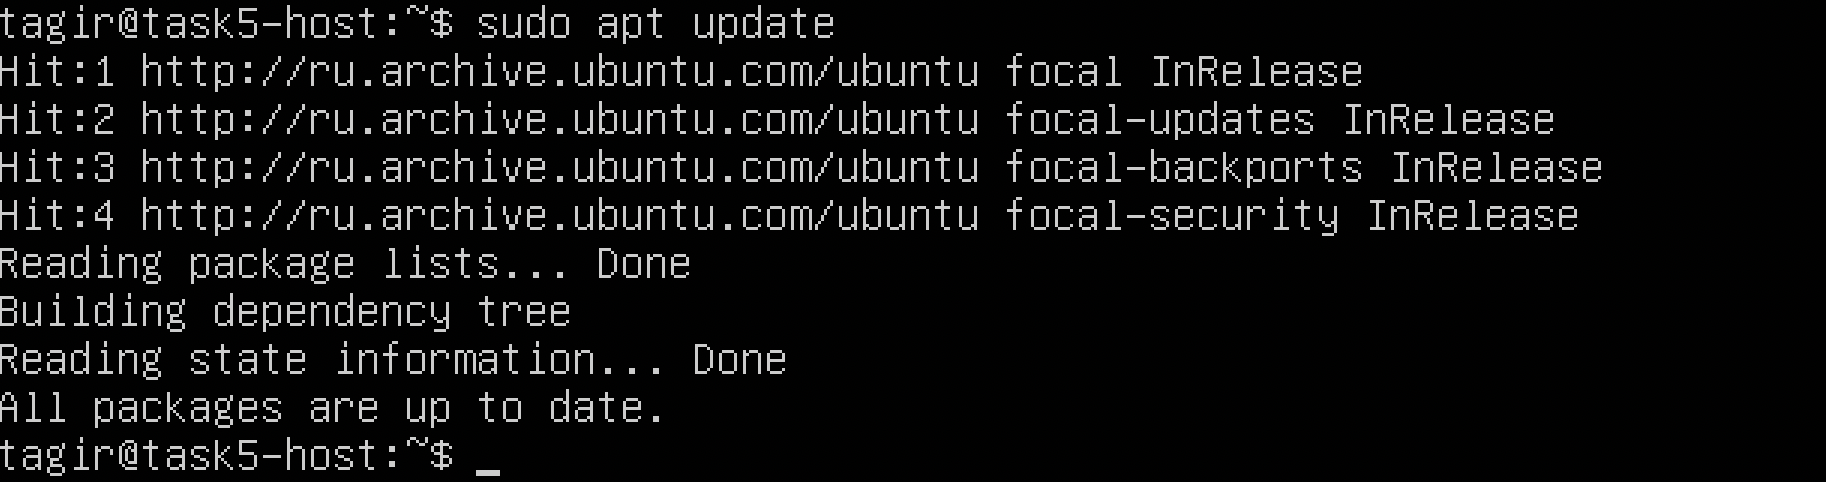
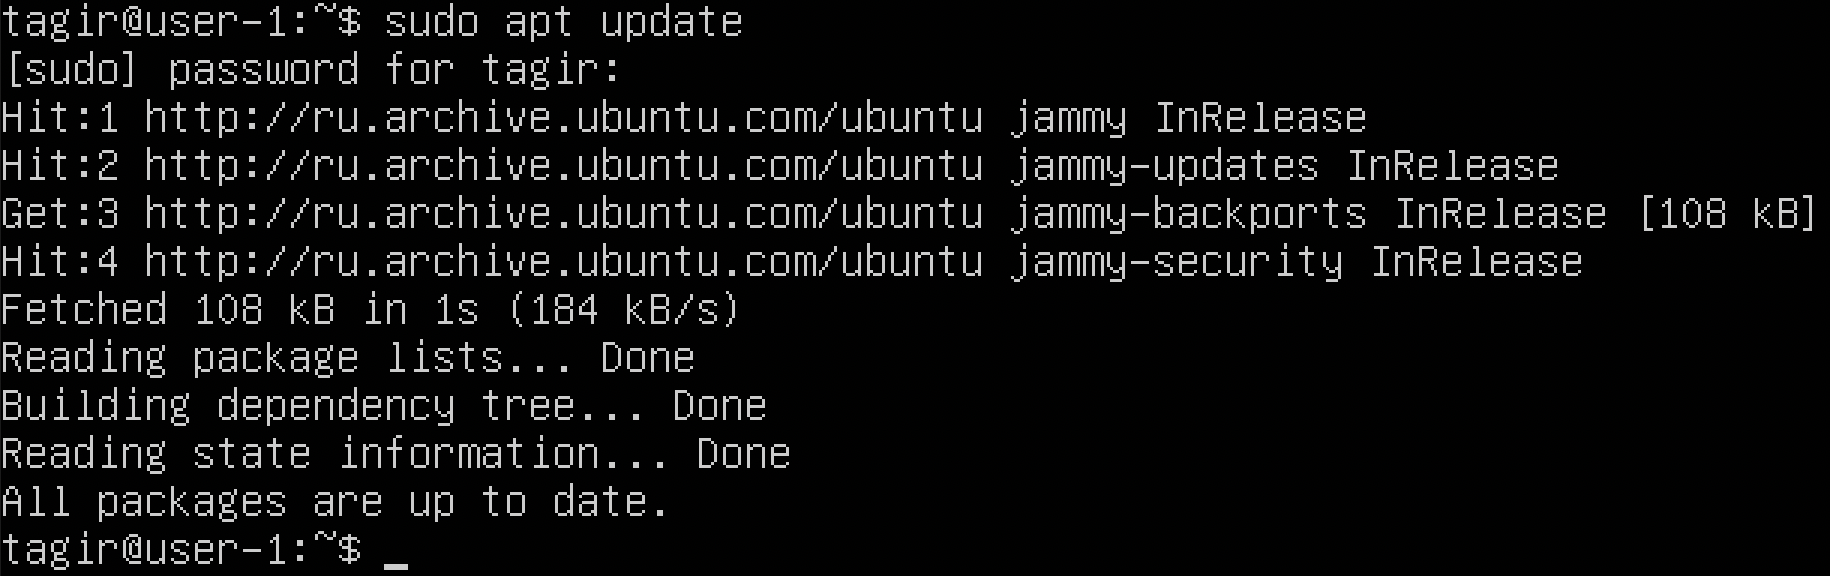
user password changing; release upgdating; GUI

Changed region(s): [[0.0, 0.0, 0.9989, 0.9959], [0.2497, 0.9647, 0.2809, 0.9959]]

diff --git a/README.md b/README.md
@@ -19,6 +19,7 @@ Linux system installation and updates. Administration basics.
 13. [Installing and using the ncdu utility](#part-13-installing-and-using-the-ncdu-utility)    
 14. [Working with system logs](#part-14-working-with-system-logs)     
 15. [Using the CRON job scheduler](#part-15-using-the-cron-job-scheduler)
+16. [My experiments](#part-16-my-experiments)
 
 
 ## Part 1. Installation of the OS
@@ -1134,3 +1135,87 @@ after task adding
     $ sudo crontab -l
 
   ![p15_5_crontab_removing.png](screenshots/part_15/p15_5_crontab_removing.png)
+
+## Part 16. My experiments
+
+16.1 User password changing
+
+    $ sudo passwd
+
+  or 
+
+    $ sudo passwd <username>
+
+  ![p16_1_passwd.png](screenshots/part_16_my/p16_1_passwd.png)
+
+
+16.2 Release updating
+
+Шаг 1. Обновление пакетов
+
+Для того чтобы минимизировать отличия состояния пакетов системы с той, которую разработчики готовили до обновления, следует обновить её до самого последнего состояния. Для этого сначала обновляем списки пакетов:
+
+    $ sudo apt update
+
+Затем обновляем полностью весь дистрибутив с разрешением удаления конфликтующих пакетов:
+
+    $ sudo apt dist-upgrade
+
+Далее можно удалить пакеты, которые в системе больше не нужны:
+
+    $ sudo apt autoremove
+
+Возможно после обновления нужно будет перезагрузить систему:
+
+    $ sudo reboot
+
+Шаг 2. Запуск обновления
+
+Для запуска обновления в графическом интерфейсе надо выполнить команду:
+
+    $ sudo do-release-upgrade
+
+Проверка релиза
+
+    $ lsb_release -d
+
+  ![p16_2_relaese_check.png](screenshots/part_16_my/p16_2_relaese_check.png)
+
+
+16.3 Переключение на графический интерфейс
+
+Чтобы узнать текущее состояние рига (включена или нет графическая оболочка X-сервер) используется команда:
+
+    $ sudo systemctl get-default
+
+  ![p16_3_get-default.png](screenshots/part_16_my/p16_3_get-default.png)
+
+
+* multi-user.target обеспечивает запуск системы на уровне 3, которому соответствует работа в многопользовательском режиме, без графики, с помощью консоли и/или через сеть
+
+* graphical.target обеспечивает запуск системы на уровне 5, которому соответствует работа в многопользовательском режиме с графикой
+
+Включение графического интерфейса
+
+    $ sudo systemctl set-default graphical.target
+
+  ![p16_4_GUI_switch_on.png](screenshots/part_16_my/p16_4_GUI_switch_on.png)
+
+
+<details><summary>GUI</summary>
+
+  ![p16_5_GUI_1.png](screenshots/part_16_my/p16_5_GUI_1.png)
+
+  ![p16_6_GUI_2.png](screenshots/part_16_my/p16_6_GUI_2.png)
+
+</details>
+
+Отключение графического интерфейса
+
+    $ sudo systemctl set-default multi-user.target
+
+  ![p16_7_GUI_switch_off.png](screenshots/part_16_my/p16_7_GUI_switch_off.png)
+
+
+Изменение вступает в силу сразу после перезагрузки системы
+
